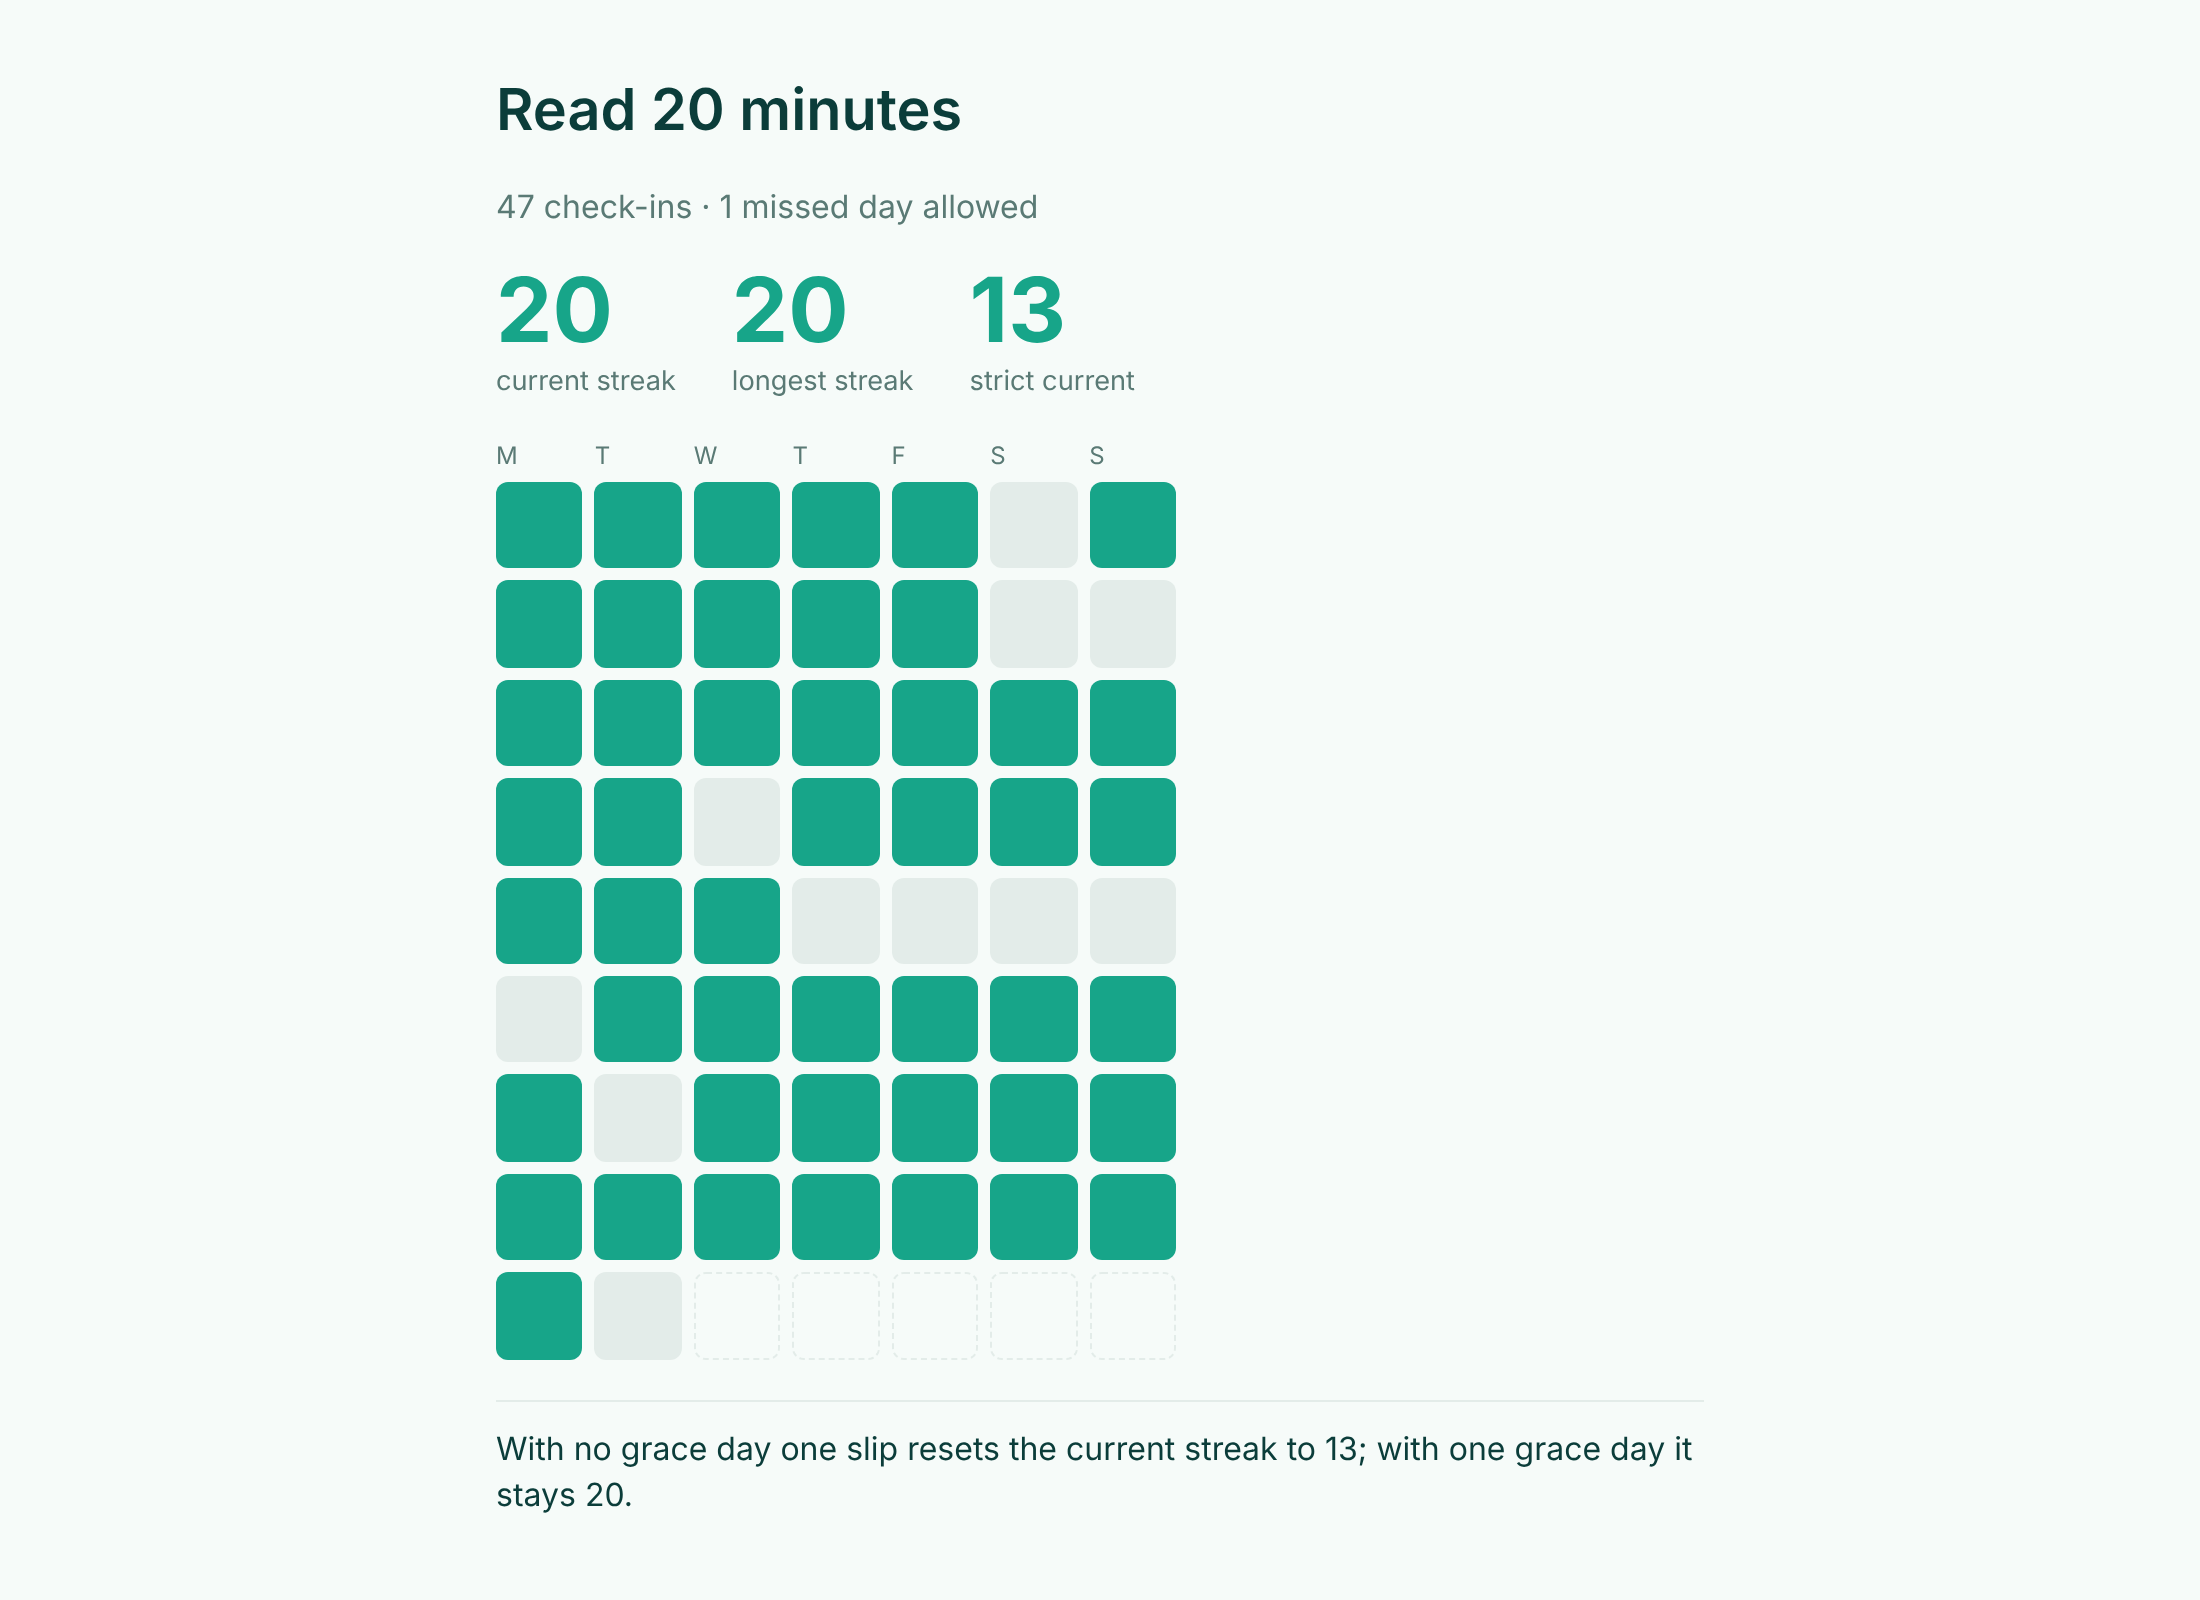
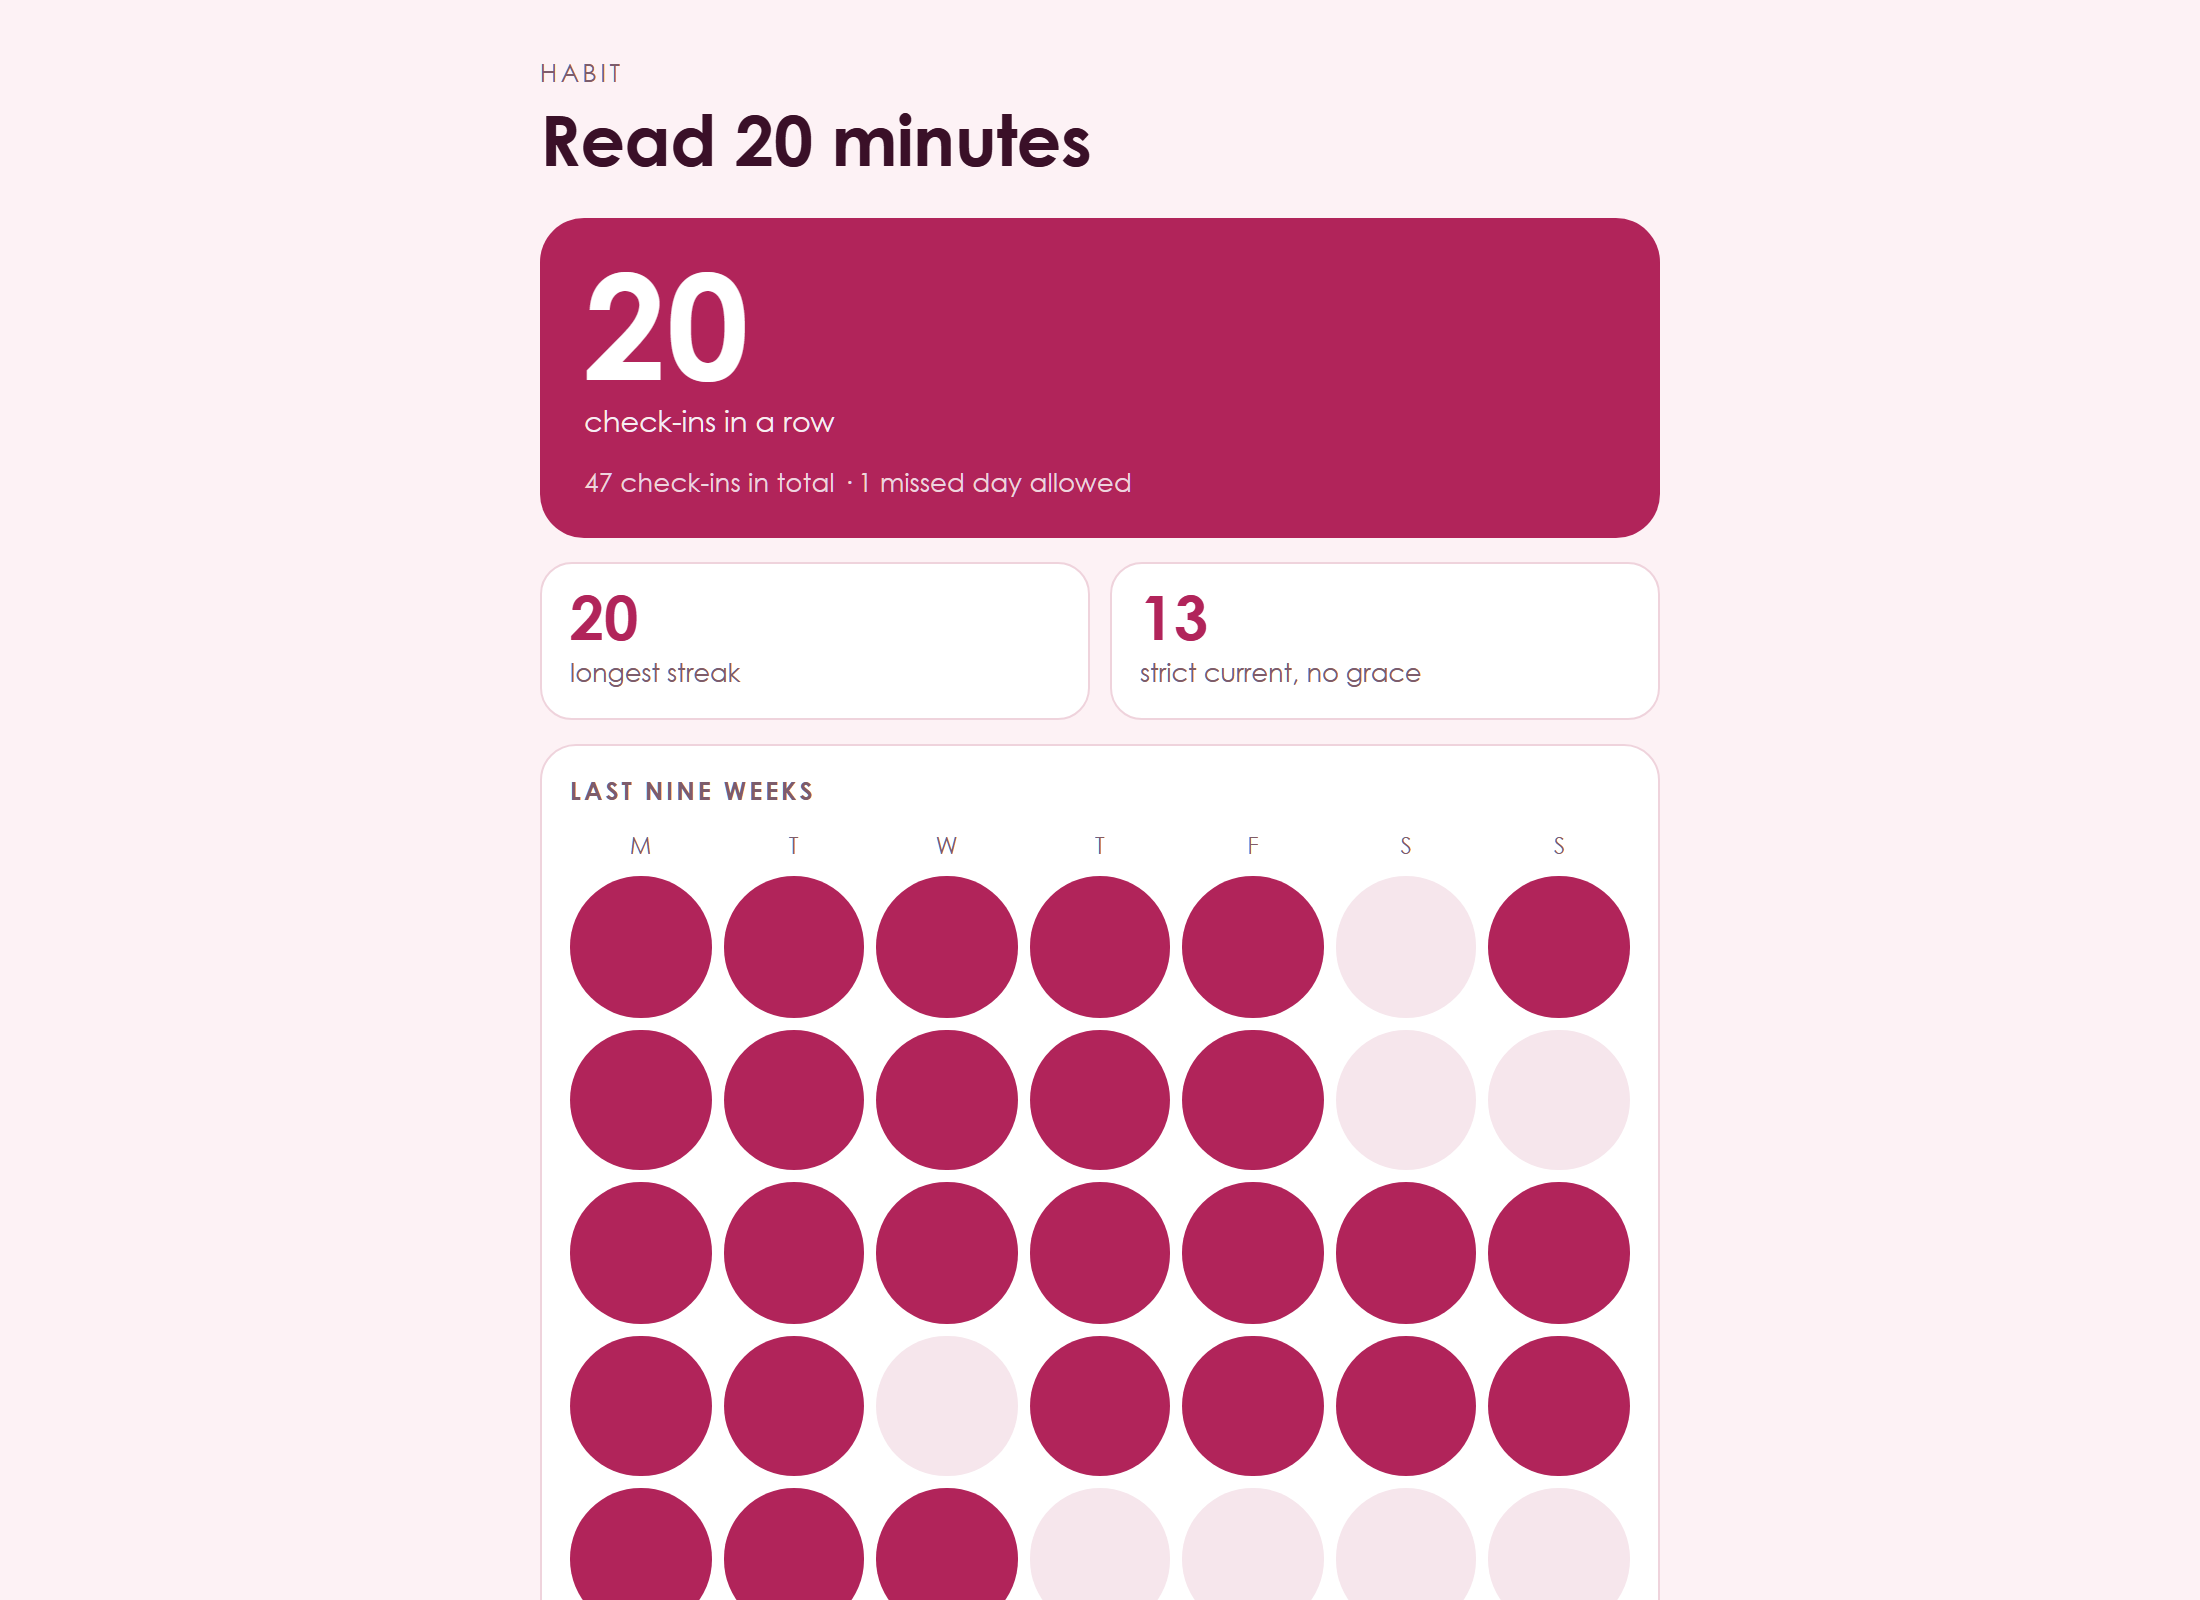
Redesign frontend: habit-streak-keeper

diff --git a/static/index.html b/static/index.html
@@ -1,29 +1,90 @@
 <!doctype html>
-<html lang="en"><head><meta charset="utf-8"><meta name="viewport" content="width=device-width,initial-scale=1">
+<html lang="en">
+<head>
+<meta charset="utf-8">
+<meta name="viewport" content="width=device-width,initial-scale=1">
 <title>Habit Streak Keeper</title>
 <style>
-:root{--bg:#f6fbf9;--ink:#0b3d3a;--teal:#17a589;--miss:#e3ece9;--mute:#5a7a75}
-*{box-sizing:border-box}body{margin:0;background:var(--bg);color:var(--ink);font:16px/1.45 "Avenir Next",Avenir,"Helvetica Neue",sans-serif}
-main{max-width:640px;margin:0 auto;padding:34px 18px}h1{margin:0;font-size:1.8rem;font-weight:600}p{color:var(--mute)}
-.nums{display:flex;gap:28px;margin:18px 0}.nums div b{display:block;font-size:2.8rem;line-height:1;color:var(--teal)}.nums span{font-size:.85rem;color:var(--mute)}
-.grid{display:grid;grid-template-columns:repeat(7,1fr);gap:6px;max-width:340px}.c{aspect-ratio:1;border-radius:6px;background:var(--miss)}
-.c.done{background:var(--teal)}.c.future{background:transparent;border:1px dashed var(--miss)}
-.days{display:grid;grid-template-columns:repeat(7,1fr);gap:6px;max-width:340px;font-size:.75rem;color:var(--mute);margin-bottom:4px}
-.note{margin-top:20px;border-top:1px solid var(--miss);padding-top:12px}
-</style></head><body><main>
-<h1 id="h"></h1><p id="sub"></p>
-<div class="nums" id="nums"></div>
-<div class="days"><span>M</span><span>T</span><span>W</span><span>T</span><span>F</span><span>S</span><span>S</span></div>
-<div class="grid" id="grid"></div><div class="note" id="note"></div></main>
+:root{
+  --paper:#fdf2f5;--panel:#ffffff;--ink:#3a1028;--accent:#b1245a;--blush:#f6c6d4;
+  --mute:#7d5d6b;--rule:#efd3dc;--miss:#f6e6ec;--future:transparent;
+}
+@media (prefers-color-scheme: dark){
+  :root{
+    --paper:#1d0f17;--panel:#2a1620;--ink:#fde9f0;--accent:#ff7fa8;--blush:#5a2a40;
+    --mute:#c9a3b3;--rule:#4a2a38;--miss:#3a1f2b;
+  }
+}
+*{box-sizing:border-box}
+html{background:var(--paper)}
+body{margin:0;min-height:100vh;background:var(--paper);color:var(--ink);
+  font:16px/1.45 "Century Gothic",Futura,"Avenir Next",sans-serif;padding:16px}
+main{max-width:560px;margin:0 auto}
+.eyebrow{font-size:.78rem;letter-spacing:.14em;text-transform:uppercase;color:var(--mute);margin:12px 0 0}
+h1{margin:4px 0 0;font-size:clamp(1.7rem,6vw,2.2rem);font-weight:700;letter-spacing:-.01em;line-height:1.15}
+.hero{background:var(--accent);color:#fff;border-radius:22px;padding:20px 22px 18px;margin-top:18px}
+.hero .big{font-size:4.6rem;line-height:.9;font-weight:700}
+.hero .lbl{font-size:.9rem;opacity:.92;margin-top:6px}
+.hero .meta{font-size:.82rem;opacity:.8;margin-top:10px}
+.stats{display:grid;grid-template-columns:repeat(2,minmax(0,1fr));gap:10px;margin-top:12px}
+.stat{background:var(--panel);border:1px solid var(--rule);border-radius:16px;padding:12px 14px}
+.stat b{display:block;font-size:1.9rem;line-height:1;color:var(--accent)}
+.stat span{font-size:.8rem;color:var(--mute)}
+.calendar{background:var(--panel);border:1px solid var(--rule);border-radius:18px;padding:14px;margin-top:12px}
+.calendar h2{margin:0 0 10px;font-size:.78rem;letter-spacing:.12em;text-transform:uppercase;color:var(--mute);font-weight:600}
+.wk{display:grid;grid-template-columns:repeat(7,minmax(0,1fr));gap:6px;text-align:center;font-size:.72rem;color:var(--mute);margin-bottom:6px}
+.grid{display:grid;grid-template-columns:repeat(7,minmax(0,1fr));gap:6px}
+.c{aspect-ratio:1;border-radius:50%;background:var(--miss)}
+.c.done{background:var(--accent)}
+.c.future{background:var(--future);border:1.5px dashed var(--rule)}
+.legend{display:flex;gap:14px;flex-wrap:wrap;font-size:.78rem;color:var(--mute);margin-top:10px}
+.legend i{display:inline-block;width:11px;height:11px;border-radius:50%;margin-right:6px;vertical-align:-1px}
+.note{margin-top:12px;padding:12px 14px;border-radius:14px;background:var(--blush);color:var(--ink);font-size:.95rem}
+@media (prefers-reduced-motion:reduce){*{transition:none!important;animation:none!important}}
+</style>
+</head>
+<body>
+<main>
+  <p class="eyebrow">Habit</p>
+  <h1 id="h"></h1>
+
+  <section class="hero" aria-label="Current streak">
+    <div class="big" id="cur">–</div>
+    <div class="lbl">check-ins in a row</div>
+    <div class="meta" id="sub"></div>
+  </section>
+
+  <section class="stats" aria-label="Streak numbers" id="nums"></section>
+
+  <section class="calendar" aria-label="Last nine weeks">
+    <h2>Last nine weeks</h2>
+    <div class="wk" aria-hidden="true"><span>M</span><span>T</span><span>W</span><span>T</span><span>F</span><span>S</span><span>S</span></div>
+    <div class="grid" id="grid"></div>
+    <div class="legend">
+      <span><i style="background:var(--accent)"></i>checked in</span>
+      <span><i style="background:var(--miss)"></i>missed</span>
+      <span><i style="border:1.5px dashed var(--rule)"></i>upcoming</span>
+    </div>
+  </section>
+
+  <p class="note" id="note"></p>
+</main>
 <script>
-(async()=>{
-  const s=await (await fetch("/sample")).json();
-  const r=await (await fetch("/streak",{method:"POST",headers:{"Content-Type":"application/json"},body:JSON.stringify({done:s.done,today:s.today,grace_days:s.grace_days})})).json();
-  document.getElementById("h").textContent=s.habit;
-  document.getElementById("sub").textContent=`${r.streak.total_checkins} check-ins · ${s.grace_days} missed day allowed`;
-  const n=(v,l)=>`<div><b>${v}</b><span>${l}</span></div>`;
-  document.getElementById("nums").innerHTML=n(r.streak.current,"current streak")+n(r.streak.longest,"longest streak")+n(r.strict.current,"strict current");
-  document.getElementById("grid").innerHTML=r.heatmap.flat().map(c=>`<div class="c ${c}"></div>`).join("");
-  document.getElementById("note").textContent=`With no grace day one slip resets the current streak to ${r.strict.current}; with one grace day it stays ${r.streak.current}.`;
+(async () => {
+  const s = await (await fetch("/sample")).json();
+  const r = await (await fetch("/streak", {
+    method: "POST",
+    headers: {"Content-Type": "application/json"},
+    body: JSON.stringify({done: s.done, today: s.today, grace_days: s.grace_days}),
+  })).json();
+  document.getElementById("h").textContent = s.habit;
+  document.getElementById("cur").textContent = r.streak.current;
+  document.getElementById("sub").textContent = `${r.streak.total_checkins} check-ins in total · ${s.grace_days} missed day allowed`;
+  const n = (v, l) => `<div class="stat"><b>${v}</b><span>${l}</span></div>`;
+  document.getElementById("nums").innerHTML = n(r.streak.longest, "longest streak") + n(r.strict.current, "strict current, no grace");
+  document.getElementById("grid").innerHTML = r.heatmap.flat().map(c => `<div class="c ${c}"></div>`).join("");
+  document.getElementById("note").textContent = `With no grace day one slip resets the current streak to ${r.strict.current}; with one grace day it stays ${r.streak.current}.`;
 })();
-</script></body></html>
+</script>
+</body>
+</html>
